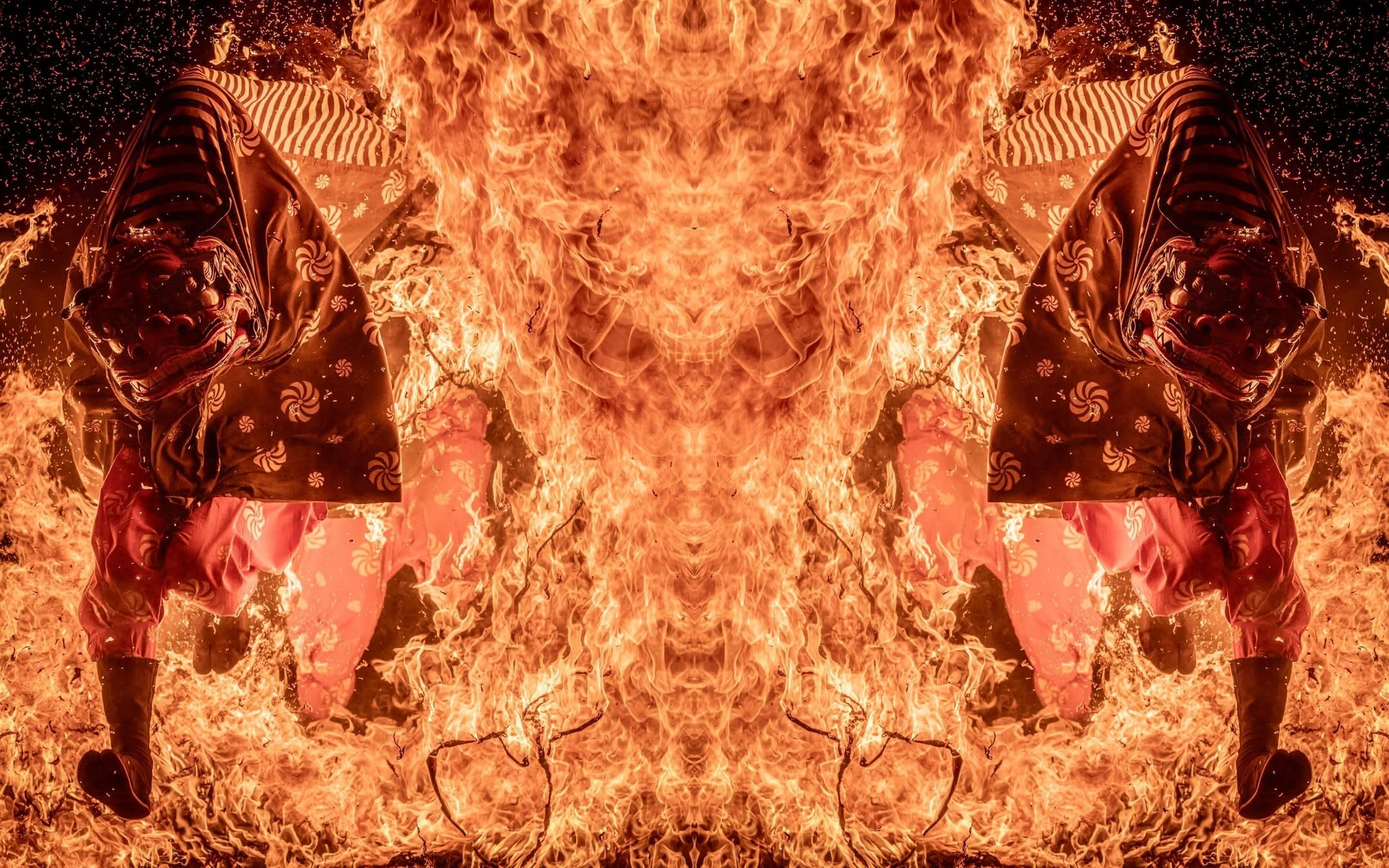
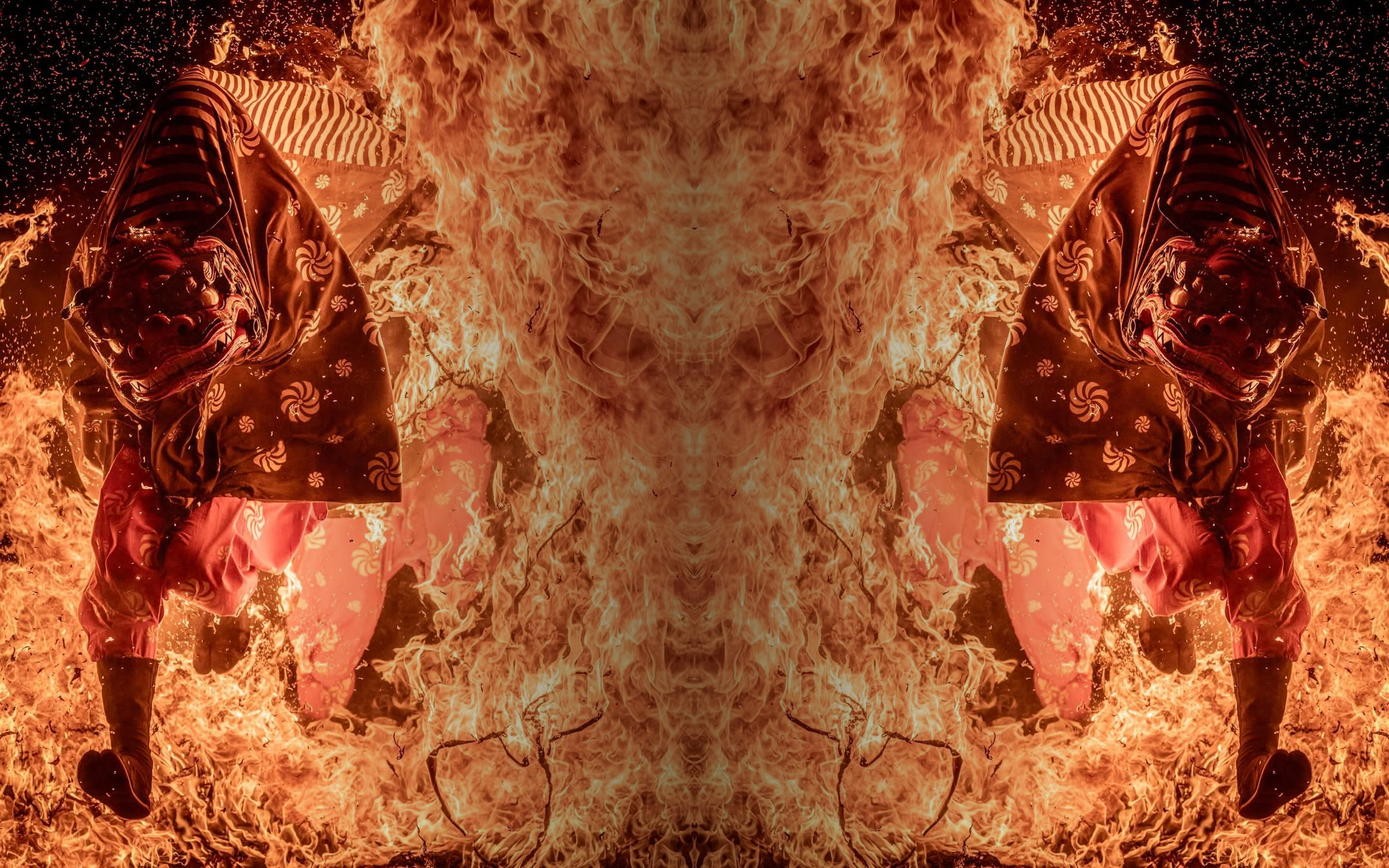
ヒーローセクションの画像を修正し、明るさも修正

diff --git a/components/home-client.tsx b/components/home-client.tsx
@@ -138,7 +138,7 @@ export function HomeClient({ tourData }: HomeClientProps) {
 
       {/* Hero Section */}
       <div ref={heroRef} className="relative h-screen">
-        <div className="absolute inset-0 bg-black/50 z-10" />
+        <div className="absolute inset-0 bg-black/10 z-10" />
         <div className="absolute inset-0 w-full h-full">
           {heroBg && (
             <Image
